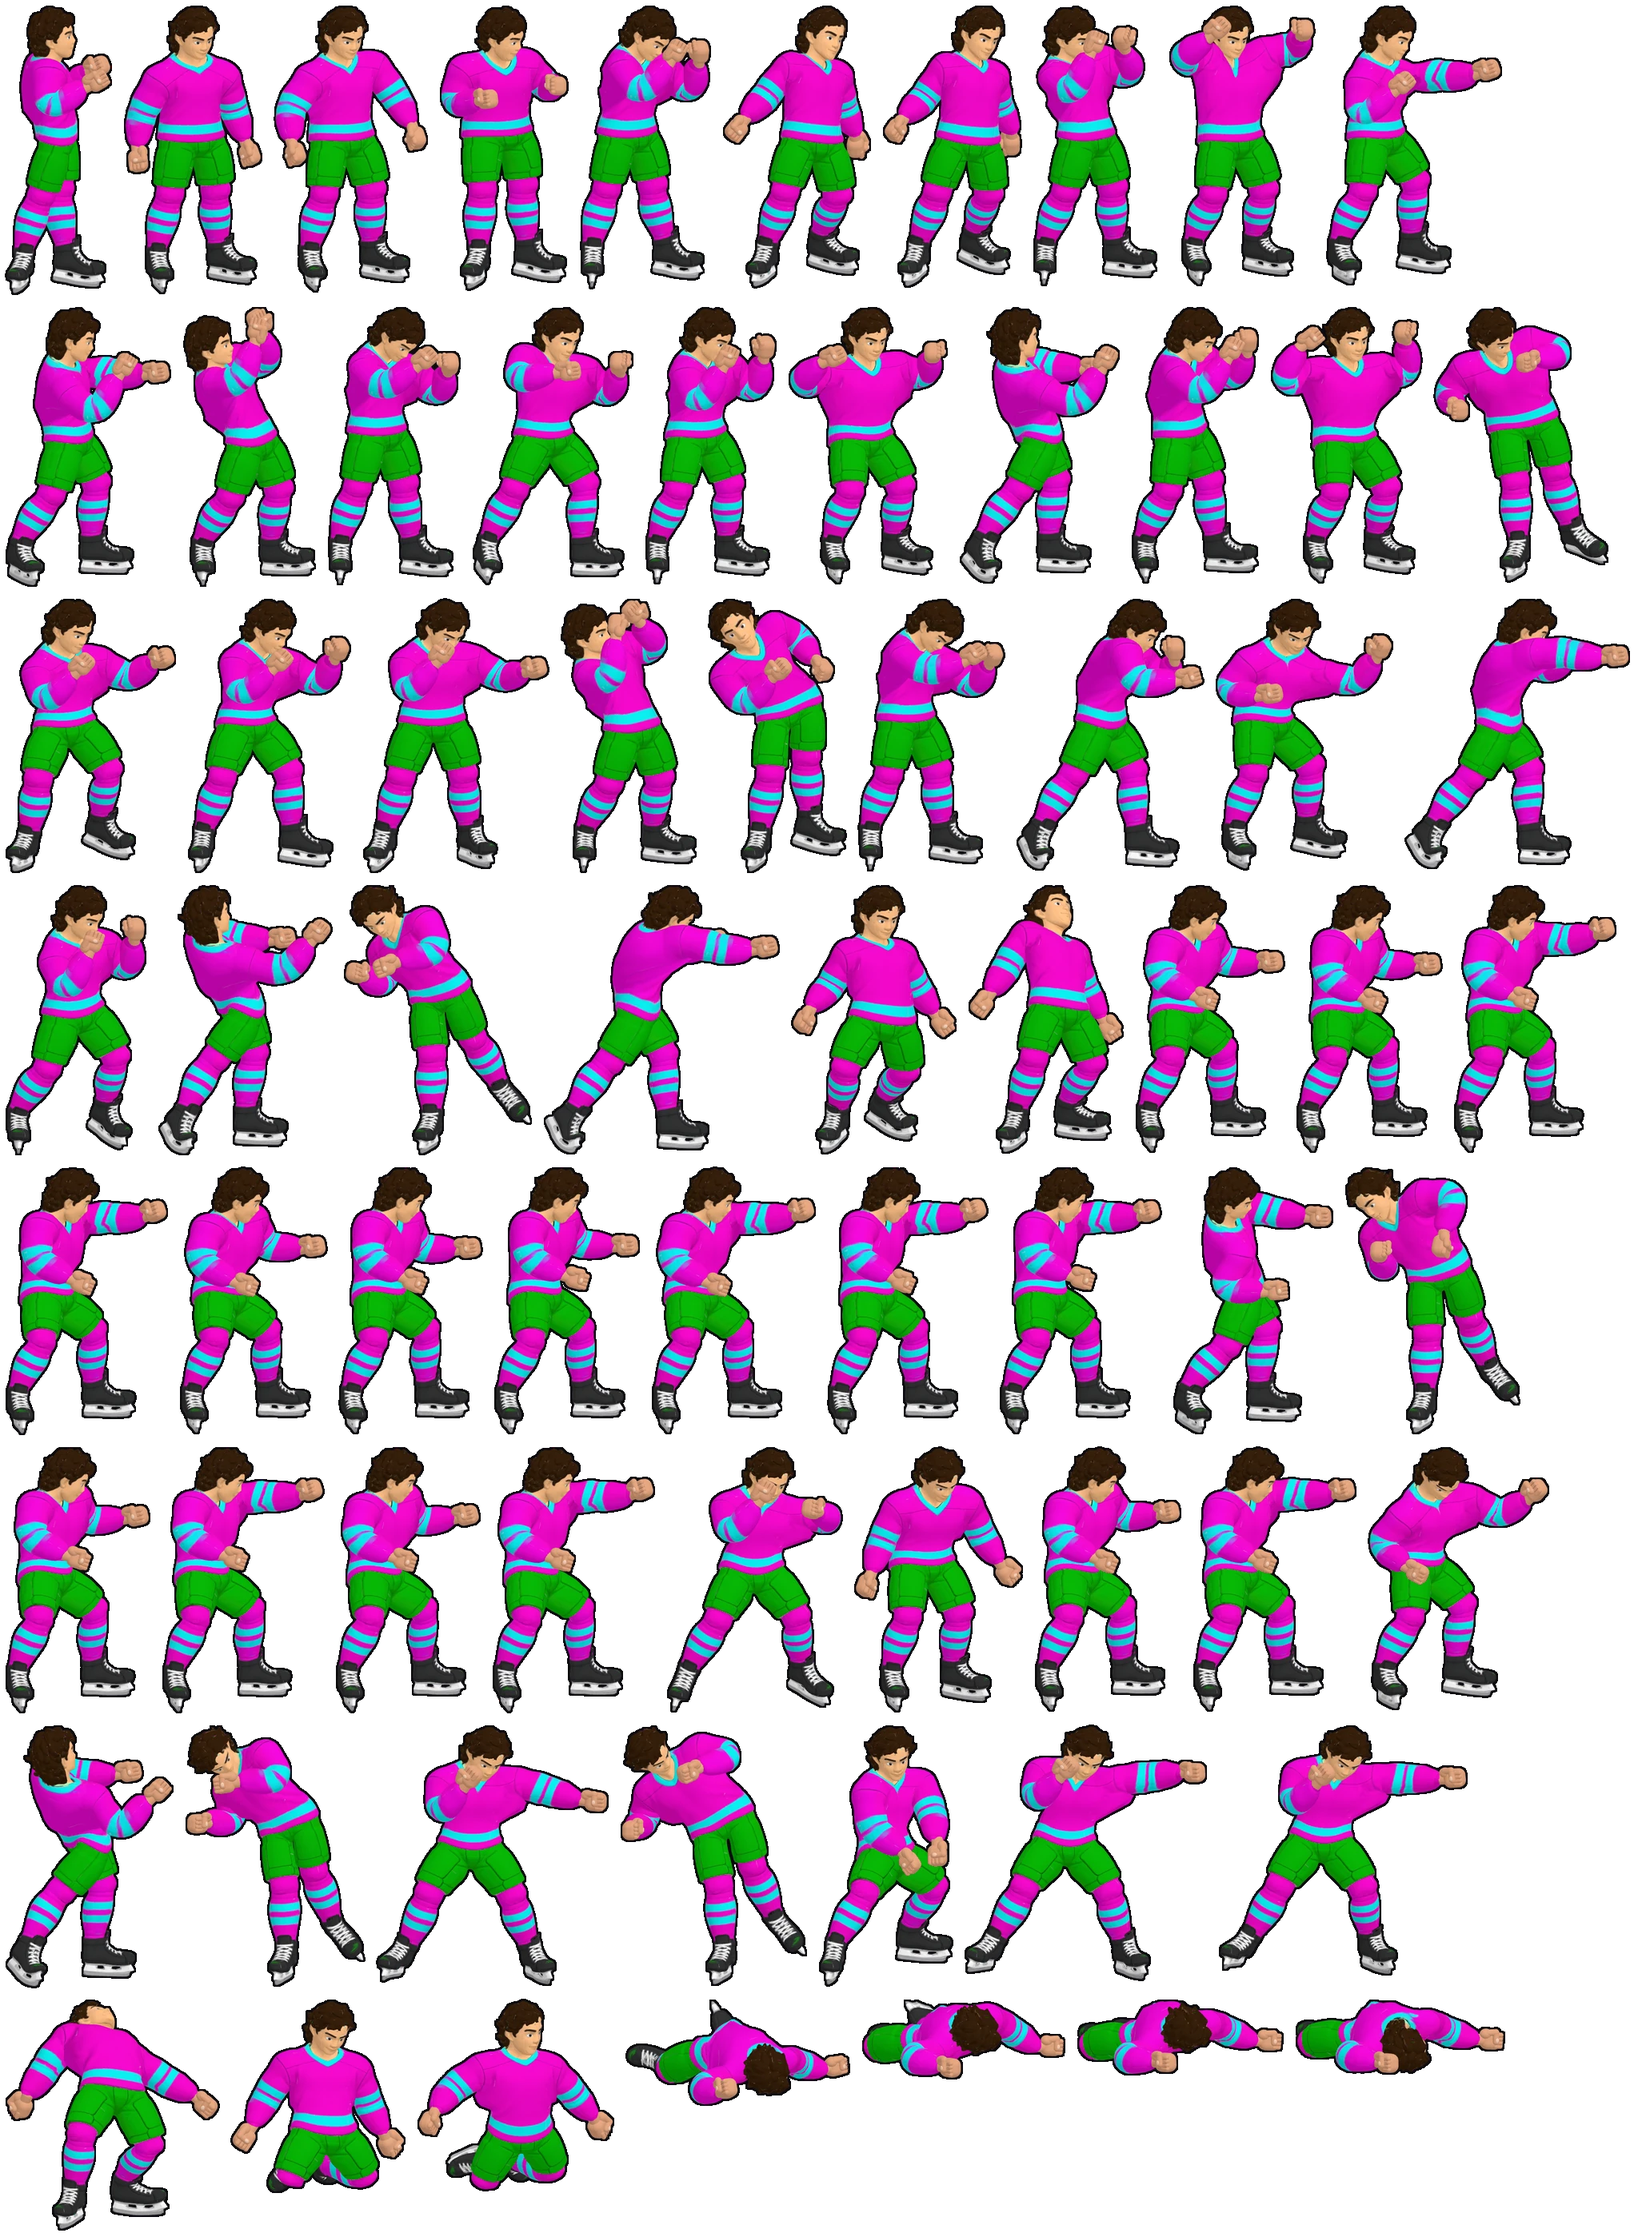
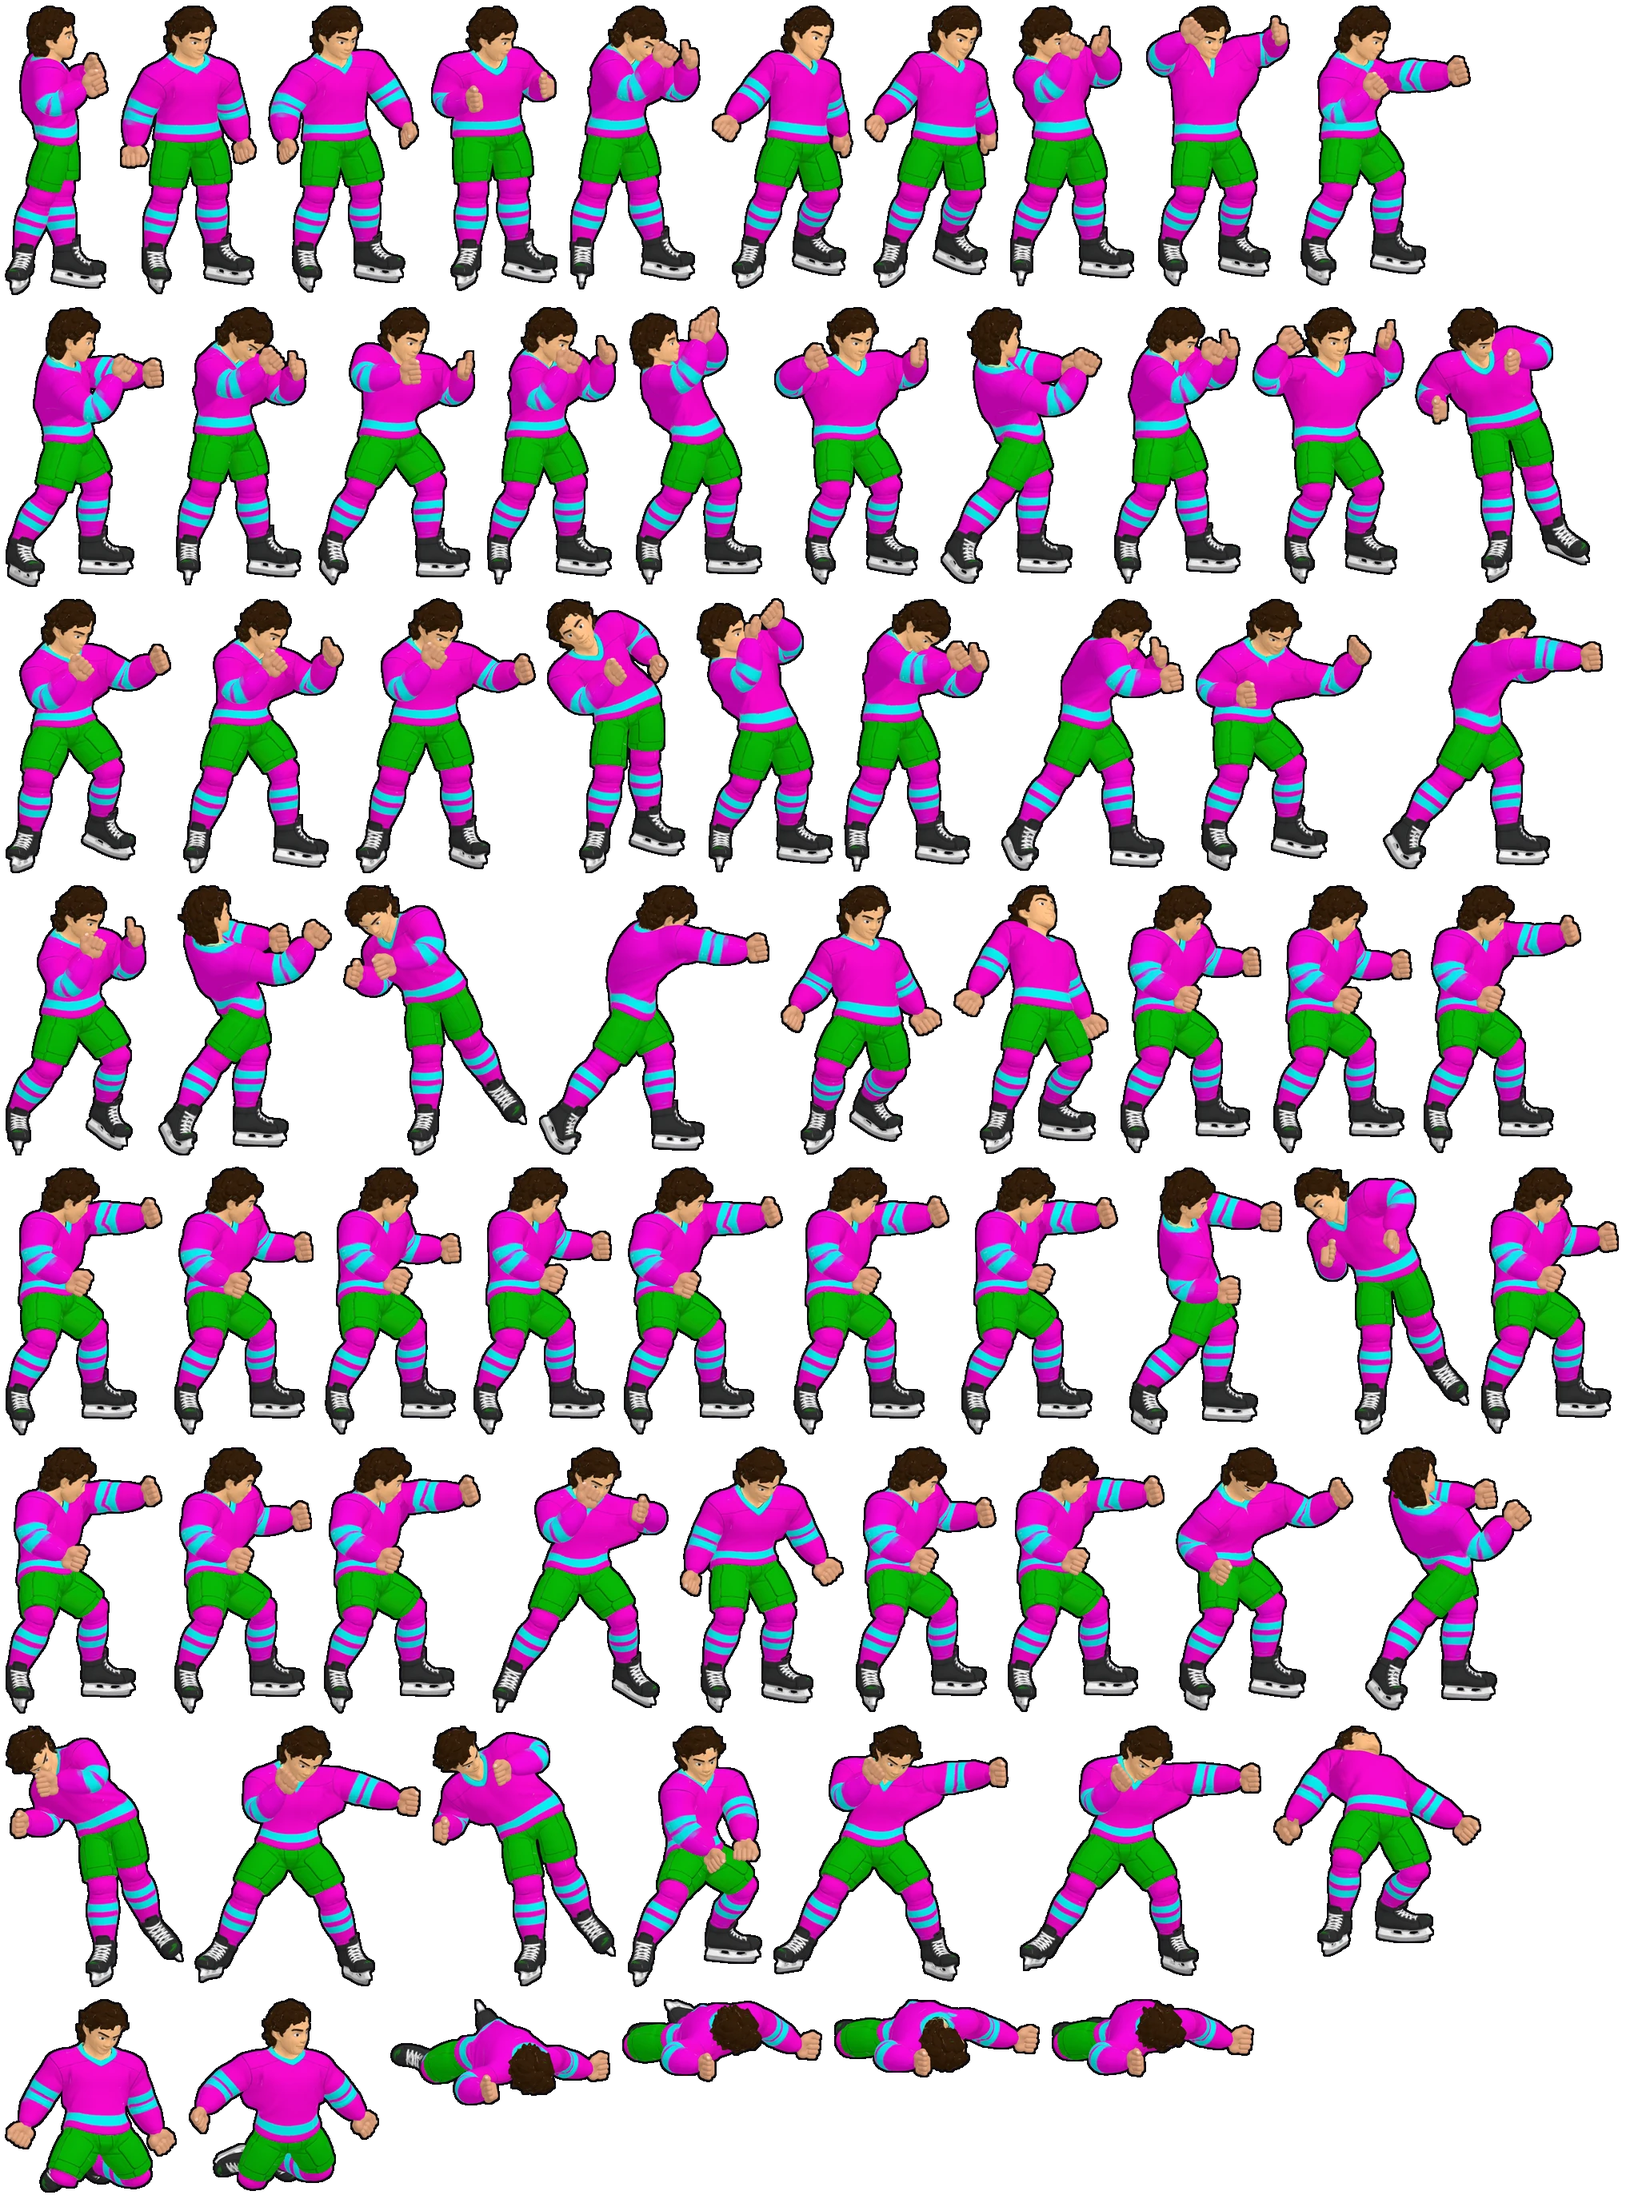
Fights: realistic fists sculpted as one smooth surface from a photo reference
Fat curled fingers stacked tight with deep creases, a thick thumb growing out of the palm pad
and lying along the top with its tip rolled over the index finger, nail on the tip.
Built as a signed-distance sculpt polygonised once (no more glued-on tube thumbs).

Claude-Session: https://claude.ai/code/session_01C1NNpy9rFbatHA9zeLktuV

diff --git a/tools/fight/fight.html b/tools/fight/fight.html
@@ -5,6 +5,7 @@
 import * as THREE from 'three';
 import {GLTFLoader} from 'three/addons/loaders/GLTFLoader.js';
 import {RoundedBoxGeometry} from 'three/addons/geometries/RoundedBoxGeometry.js';
+import {MarchingCubes} from 'three/addons/objects/MarchingCubes.js';
 const V=(x,y,z)=>new THREE.Vector3(x,y,z), Q=THREE.Quaternion, N=900;
 const cv=document.getElementById('c');
 const r=new THREE.WebGLRenderer({canvas:cv,antialias:true,alpha:true,preserveDrawingBuffer:true});
@@ -44,25 +45,47 @@ function pose(name,t,o={}){
   }
 }
 window.yaws=(t0)=>g.animations.map(c=>{ pose(c.name,t0||0); const f=(a,b)=>{const L=wp(B[a]).sub(wp(B[b])); const F=L.clone().cross(V(0,1,0)); return +(Math.atan2(F.x,F.z)*57.3).toFixed(1);}; return [c.name,f('LeftUpLeg','RightUpLeg'),f('LeftArm','RightArm')]; });
-const SKIN=new THREE.MeshStandardMaterial({color:window.SKINC||0xe0a27c,roughness:.72});
+const SKIN=new THREE.MeshStandardMaterial({color:window.SKINC||0xe0a27c,roughness:.6});
 const SKIN2=new THREE.MeshStandardMaterial({color:0xd08f68,roughness:.78});
-// A closed fist in its own frame: X = forward (knuckles), Y = up (thumb side), Z = toward the camera (curled fingers).
-function capAlong(r,a,b2,mat){ const A=V(...a), Bv=V(...b2), d=Bv.clone().sub(A), L=d.length(); const m=new THREE.Mesh(new THREE.CapsuleGeometry(r,L,6,14),mat);
-  m.position.copy(A.clone().add(Bv).multiplyScalar(.5)); m.quaternion.setFromUnitVectors(V(0,1,0),d.normalize()); return m; }
+// A closed fist in its own frame: X = forward (knuckles), Y = up (thumb on top), Z = toward the camera (curled fingers).
+// Sculpted as ONE smooth surface (a signed-distance field, polygonised once), modelled on a photo of a real fist:
+// the thumb grows out of the fleshy pad at the base of the palm and lies along the top, tip flush with the knuckles;
+// the four curled fingers are rounded segments that melt into the palm, with creases between them.
+const sdCap=(p,a,b,r)=>{ const pa=[p[0]-a[0],p[1]-a[1],p[2]-a[2]], ba=[b[0]-a[0],b[1]-a[1],b[2]-a[2]]; const h=Math.max(0,Math.min(1,(pa[0]*ba[0]+pa[1]*ba[1]+pa[2]*ba[2])/(ba[0]*ba[0]+ba[1]*ba[1]+ba[2]*ba[2])));
+  return Math.hypot(pa[0]-ba[0]*h,pa[1]-ba[1]*h,pa[2]-ba[2]*h)-r; };
+const sdEll=(p,c,r)=>{ const q=[(p[0]-c[0])/r[0],(p[1]-c[1])/r[1],(p[2]-c[2])/r[2]]; return (Math.hypot(...q)-1)*Math.min(...r); };
+const sdRBox=(p,c,h,rr)=>{ const q=[Math.abs(p[0]-c[0])-h[0]+rr,Math.abs(p[1]-c[1])-h[1]+rr,Math.abs(p[2]-c[2])-h[2]+rr]; return Math.hypot(Math.max(q[0],0),Math.max(q[1],0),Math.max(q[2],0))+Math.min(Math.max(q[0],q[1],q[2]),0)-rr; };
+const smin=(a,b,k)=>{ const h=Math.max(k-Math.abs(a-b),0)/k; return Math.min(a,b)-h*h*k*.25; };
+const FG=window.FG||{};
+function fistSDF(p){
+  const wrist=sdCap(p,[-.05,0,-.006],[.02,-.004,-.006],.031);
+  let hand=sdRBox(p,[.044,-.012,-.014],[.036,.05,.027],.022);
+  hand=smin(hand,sdEll(p,[.03,-.048,.004],[.032,.023,.022]),.016);              // heel of the hand (pinky side)
+  hand=smin(hand,sdEll(p,[.036,.03,.014],[.036,.028,.028]),.016);               // thenar: the fleshy pad the thumb grows from
+  // four fat curled fingers stacked tight, index right under the thumb; hard union leaves deep creases between them
+  const fing=Math.min(sdCap(p,[.064,.024,.024],[.098,.024,.026],.0172),sdCap(p,[.062,-.004,.026],[.1,-.004,.028],.0176),
+                      sdCap(p,[.062,-.032,.024],[.097,-.032,.026],.0168),sdCap(p,[.064,-.057,.018],[.09,-.057,.02],.0145));
+  hand=smin(hand,fing,.008);
+  // thick thumb along the top; the end joint rolls down over the front of the index finger
+  const th=smin(sdCap(p,[.036,.048,.014],[.074,.06,.02],.019),sdCap(p,[.074,.06,.02],[.099,.05,.026],.0175),.009);
+  const blend=smin(hand,th,.009), hard=Math.min(hand,th);
+  let d=p[0]<.05?blend:p[0]<.062?(blend*(.062-p[0])+hard*(p[0]-.05))/.012:hard;
+  return smin(d,wrist,.02);
+}
+let FIST_GEO=null;
+function fistGeo(){ if(FIST_GEO) return FIST_GEO;
+  const N=FG.res||84, C=[.04,0,0], H=.095, mc=new MarchingCubes(N,SKIN,false,false,200000); mc.isolation=0;
+  for(let z=0;z<N;z++) for(let y=0;y<N;y++) for(let x=0;x<N;x++){ const p=[C[0]+(x-N/2)/(N/2)*H,C[1]+(y-N/2)/(N/2)*H,C[2]+(z-N/2)/(N/2)*H]; mc.field[x+y*N+z*N*N]=-fistSDF(p)*400; }
+  mc.update(); const n=mc.count, g=new THREE.BufferGeometry();
+  const pos=mc.geometry.getAttribute('position').array.slice(0,n*3), nor=mc.geometry.getAttribute('normal').array.slice(0,n*3);
+  for(let i=0;i<n;i++){ pos[i*3]=C[0]+pos[i*3]*H; pos[i*3+1]=C[1]+pos[i*3+1]*H; pos[i*3+2]=C[2]+pos[i*3+2]*H; }
+  g.setAttribute('position',new THREE.BufferAttribute(pos,3)); g.setAttribute('normal',new THREE.BufferAttribute(nor,3)); g.computeVertexNormals();
+  FIST_GEO=g; return g; }
 function mkFist(){ const g=new THREE.Group(); g.matrixAutoUpdate=false;
-  g.add(capAlong(.027,[-.01,0,0],[.03,0,0],SKIN));                                       // wrist into the cuff
-  const body=new THREE.Mesh(new RoundedBoxGeometry(.10,.088,.078,6,.032),SKIN); body.position.set(.066,0,0); g.add(body);
-  // four curled fingers stacked down the near face (index on top, pinky shortest), with soft creases between them
-  const ys=[.027,.009,-.009,-.026], ln=[.03,.032,.03,.024], CR=new THREE.MeshStandardMaterial({color:0xbf8060,roughness:.9});
-  for(let i=0;i<4;i++){ const x1=.104; g.add(capAlong(.0115,[x1-ln[i],ys[i],.028],[x1,ys[i],.028],SKIN)); }
-  for(let i=0;i<3;i++){ const y=(ys[i]+ys[i+1])/2; g.add(capAlong(.0018,[.084,y,.0392],[.111,y,.0392],CR)); }
-  // thumb: from a pad at the heel of the hand it comes over the top, bends at the knuckle,
-  // and folds DOWN across the front of the index and middle fingers, tip tucked in (it never points forward)
-  const pad=new THREE.Mesh(new THREE.SphereGeometry(1,18,14),SKIN); pad.scale.set(.03,.024,.026); pad.position.set(.03,.03,.02); g.add(pad);
-  const T0=[.032,.036,.032], T1=[.07,.04,.042], T2=[.073,-.004,.044];
-  g.add(capAlong(.0155,T0,T1,SKIN)); g.add(capAlong(.0145,T1,T2,SKIN));
-  const bend=new THREE.Mesh(new THREE.SphereGeometry(.0158,14,10),SKIN); bend.position.set(...T1); g.add(bend);
-  const nail=new THREE.Mesh(new THREE.SphereGeometry(1,14,10),new THREE.MeshStandardMaterial({color:0xf2c9ae,roughness:.45})); nail.scale.set(.0085,.011,.004); nail.position.set(.073,.004,.0585); g.add(nail);
+  g.add(new THREE.Mesh(fistGeo(),SKIN));
+  // thumbnail: on the top-front of the thumb tip, facing up and out like in the photo
+  const nail=new THREE.Mesh(new THREE.SphereGeometry(1,20,14),new THREE.MeshStandardMaterial({color:0xf3cdb8,roughness:.35}));
+  nail.scale.set(.0108,.0026,.0085); nail.position.set(.1075,.0586,.0379); nail.quaternion.setFromUnitVectors(V(0,1,0),V(.6,.45,.66).normalize()); g.add(nail);
   sc.add(g); return g; }
 const FISTS={L:mkFist(),R:mkFist()};
 const CAMV=V(-Math.cos(AZ),Math.sin(EL),Math.sin(AZ)).normalize();
@@ -72,7 +95,7 @@ function placeFists(){ root.updateMatrixWorld(true);
     const F=V(0,1,0).applyQuaternion(q).normalize();
     let U=V(0,1,0).sub(F.clone().multiplyScalar(F.y)); if(U.length()<.35) U=V(0,0,1).sub(F.clone().multiplyScalar(F.z)).add(V(0,.5,0)); U.sub(F.clone().multiplyScalar(U.dot(F))).normalize();
     let P=F.clone().cross(U); if(P.dot(CAMV)<0) P.negate();
-    const S=window.FSCALE??1.45; g.matrix.makeBasis(F,U,P).scale(V(S,S,S)).setPosition(w.clone().add(F.clone().multiplyScalar(.012*S))); g.matrixWorldNeedsUpdate=true; } }
+    const S=window.FSCALE??1.2; g.matrix.makeBasis(F,U,P).scale(V(S,S,S)).setPosition(w.clone().add(F.clone().multiplyScalar(.012*S))); g.matrixWorldNeedsUpdate=true; } }
 window.close=(name,t,o,side,size,az,hideFist)=>{ pose(name,t,o||{}); if(window.ORIG){ B.LeftHand.scale.setScalar(1); B.RightHand.scale.setScalar(1); root.updateMatrixWorld(true);} placeFists();
   for(const k of ['L','R']) FISTS[k].visible=!hideFist;
   const Mx=FISTS[side].matrix, h=V().setFromMatrixPosition(Mx).add(V().setFromMatrixColumn(Mx,0).multiplyScalar(.06)); const c=new THREE.OrthographicCamera(-size,size,size,-size,.1,50); const a=(az||0)*Math.PI/180;
